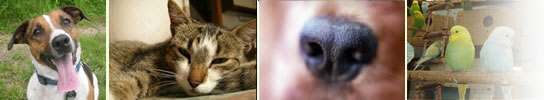
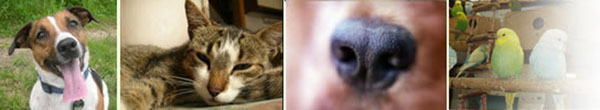
Anordnung Hauptseite modifiziert

Changed region(s): [[0.4688, 0.0, 0.5, 1.0], [0.7188, 0.0, 0.75, 0.99], [0.125, 0.63, 0.1562, 0.66]]

diff --git a/content/_index.md b/content/_index.md
@@ -2,18 +2,20 @@
 title: "Wer wir sind und was wir tun"
 date: 2023-04-27
 draft: false
-featured_image: Praxis_aussen_600px.jpg
+featured_image:
 menu:
   main:
     weight: 05
 ---
-
-
 ### Liebe Patientenbesitzer,
 <br>
 
 wir möchten Sie ganz herzlich auf unserer Homepage begrüßen.
- 
+
+<br />
+
+![Praxis](/Praxis_aussen_600px.jpg "Praxis")
+
 <br />
 
 ![Hund](/hund.jpg "Hund")
